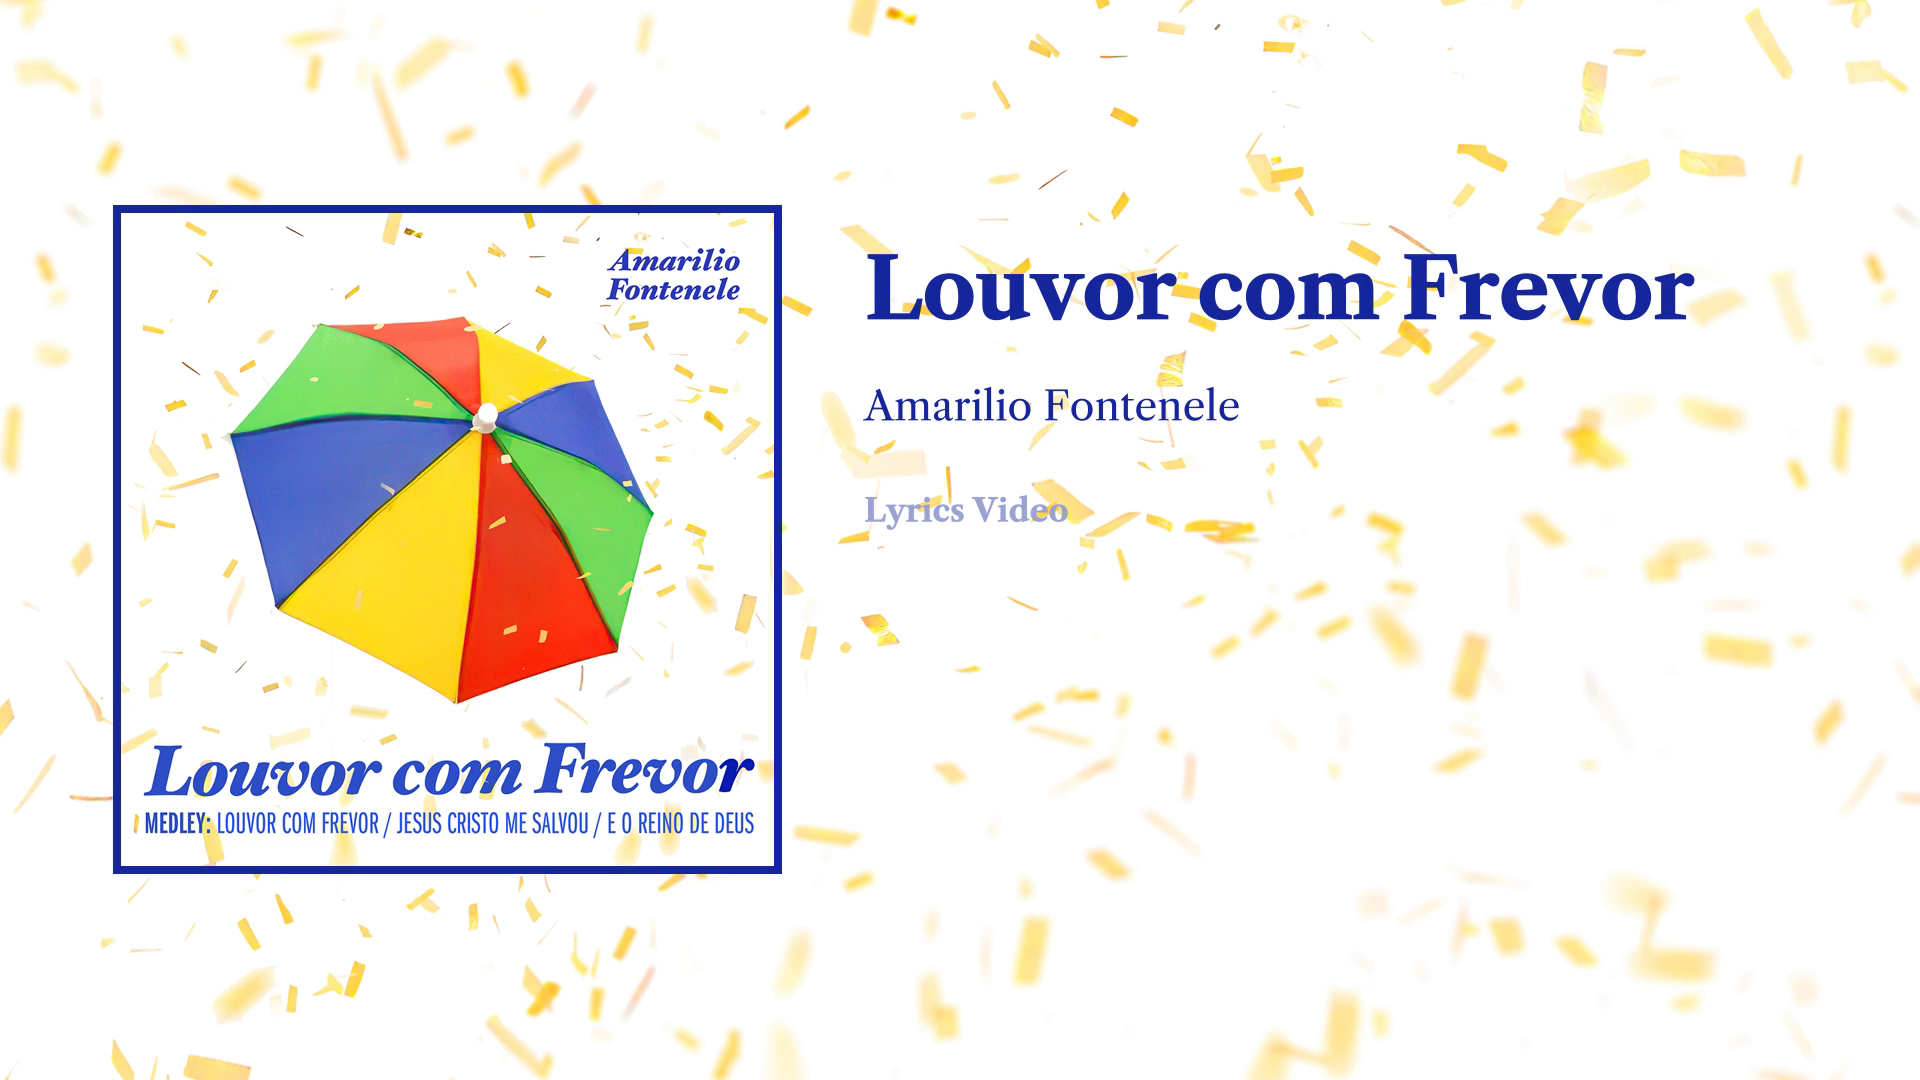
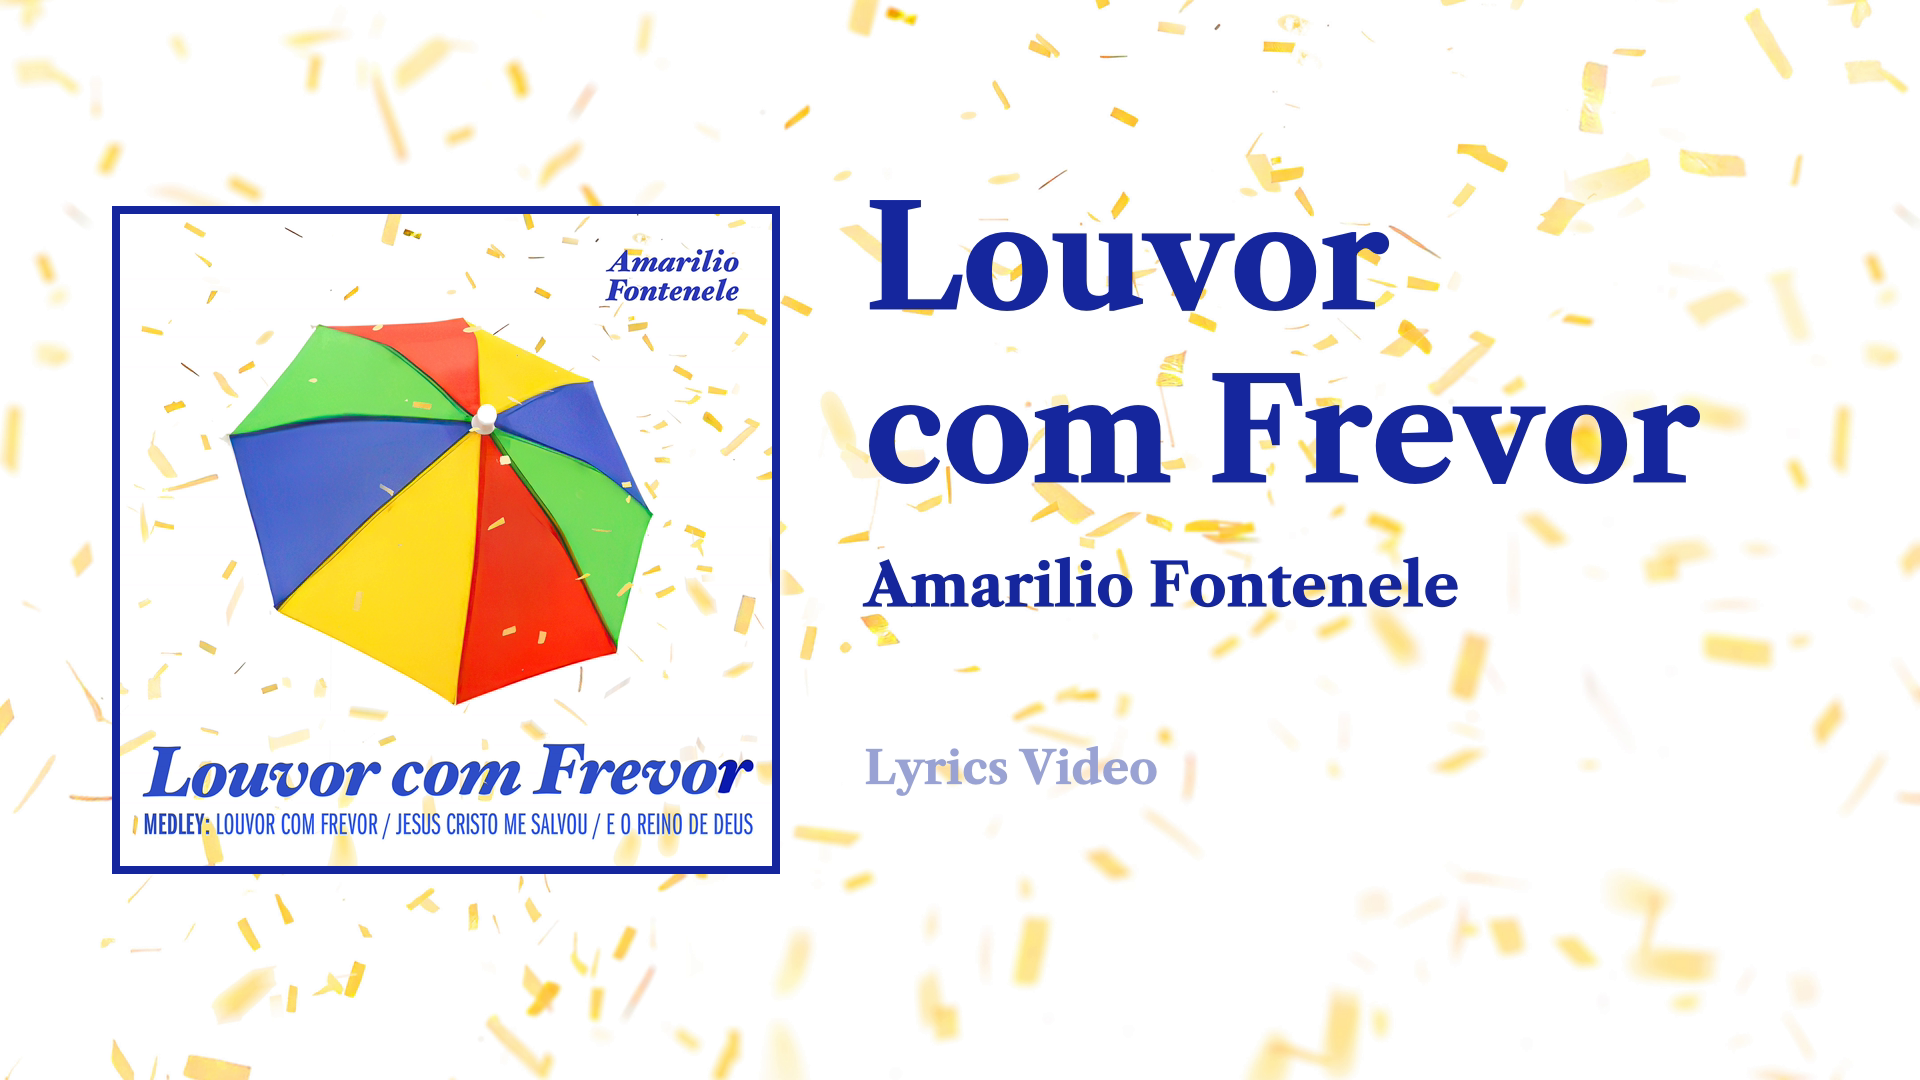
Redo intro/thumbnail typography: bigger fitted titles, grouped author, detached label
The intro title is now auto-fitted per song: it wraps into whichever
1-3 line split lets it render largest, measured with the real font
(Pillow when available), filling the text column to the same padding
the cover has on the left. The author sits tight under the title as
one group; the Lyrics Video label drops lower as a detached tag.
Compensates for libass treating ASS Fontsize as full font height.

Adds tools/make_thumbs.py so the thumbnail slides and contact sheet
are reproducible, and regenerates all 13 thumbs + SHEET-thumbnails.

Claude-Session: https://claude.ai/code/session_01N6fdJFszcmZzpC6AWr67X7

diff --git a/lyricsvideo/assgen.py b/lyricsvideo/assgen.py
@@ -2,6 +2,8 @@
 
 from __future__ import annotations
 
+import functools
+import subprocess
 from typing import TYPE_CHECKING
 
 from .lrc import Lyrics, LyricLine
@@ -40,16 +42,106 @@ def _split_lyric(text: str, max_chars: int = 30) -> list[str]:
     return [text[:split].strip(), text[split + 1:].strip()]
 
 
-def _intro_title_size(title: str) -> float:
-    """Height fraction for the intro title, larger for shorter titles."""
-    n = len(title)
-    if n <= 14:
-        return 0.110
-    if n <= 22:
-        return 0.095
-    if n <= 30:
-        return 0.085
-    return 0.075
+# Right padding of the intro text column: matches the cover's left inset so
+# a title fitted to the full column reads as centered in the composition.
+_INTRO_RIGHT_PAD = 0.059
+
+
+@functools.lru_cache(maxsize=None)
+def _font_file(font: str, bold: bool) -> str | None:
+    try:
+        out = subprocess.run(
+            ["fc-match", "-f", "%{file}", f"{font}:bold" if bold else font],
+            capture_output=True, text=True, timeout=5,
+        )
+        return out.stdout.strip() or None
+    except Exception:
+        return None
+
+
+@functools.lru_cache(maxsize=4096)
+def _text_width(text: str, size: int, font: str, bold: bool = True) -> float:
+    """Pixel width of text, measured with the real font when possible."""
+    try:
+        from PIL import ImageFont
+
+        f = ImageFont.truetype(_font_file(font, bold), size)
+        try:
+            f.set_variation_by_axes([700 if bold else 400])
+        except Exception:
+            pass
+        return float(f.getlength(text))
+    except Exception:
+        return len(text) * size * 0.55
+
+
+def _balanced_split(words: tuple[str, ...], n: int, font: str) -> list[str]:
+    """Split words into n lines minimizing the widest line."""
+    if n <= 1:
+        return [" ".join(words)]
+    best_lines, best_widest = None, None
+    # Try every split point for the first line, recurse for the rest.
+    for i in range(1, len(words) - n + 2):
+        head = " ".join(words[:i])
+        rest = _balanced_split(words[i:], n - 1, font)
+        widest = max(_text_width(t, 100, font) for t in [head, *rest])
+        if best_widest is None or widest < best_widest:
+            best_lines, best_widest = [head, *rest], widest
+    return best_lines
+
+
+@functools.lru_cache(maxsize=None)
+def _font_scale(font: str) -> float:
+    """ASS font size / em size. libass (matching VSFilter) treats the ASS
+    Fontsize as the font's total height (ascent+descent), so glyphs render
+    smaller than the nominal size by this factor."""
+    try:
+        from PIL import ImageFont
+
+        f = ImageFont.truetype(_font_file(font, True), 100)
+        ascent, descent = f.getmetrics()
+        return max(1.0, (ascent + descent) / 100)
+    except Exception:
+        return 1.2
+
+
+def intro_layout(title: str, width: int, height: int, font: str) -> dict:
+    """Fitted intro typography: title wrapped and sized to fill the text
+    column, author tight beneath it, the label detached lower down.
+
+    Sizes are nominal ASS font sizes (visual em = size / _font_scale)."""
+    avail = width * (1 - SHOWCASE["intro_text_x"] - _INTRO_RIGHT_PAD)
+    scale = _font_scale(font)
+    caps = {1: 0.150, 2: 0.130, 3: 0.110}  # visual em height caps
+    words = tuple(title.split()) or ("",)
+    best_size, best_lines = 1.0, [title]
+    for n in (1, 2, 3):
+        if n > len(words):
+            break
+        lines = _balanced_split(words, n, font)
+        widest = max(_text_width(t, 100, font) for t in lines)
+        size = min(avail * 100 / max(widest, 1) * 0.97, caps[n] * height) * scale
+        # Prefer fewer lines unless more lines buy a meaningfully bigger title.
+        if size > best_size * 1.02:
+            best_size, best_lines = size, lines
+    size_frac = best_size / height
+    n = len(best_lines)
+    title_y = {1: 0.20, 2: 0.16, 3: 0.12}[n]
+    author_size = min(
+        max(0.42 * best_size, 0.048 * scale * height), 0.060 * scale * height
+    )
+    # A line advance is roughly the nominal size (the full font height).
+    author_y = title_y + n * size_frac * 1.02 + 0.022
+    label_y = max(0.60, author_y + author_size / height + 0.11)
+    return {
+        "title_size": round(best_size),
+        "title_lines": best_lines,
+        "title_y": title_y,
+        "author_size": round(author_size),
+        "author_y": author_y,
+        "label_size": round(height * 0.042 * scale),
+        "label_y": label_y,
+    }
 
 
 def showcase_block_metrics(title: str | None) -> tuple[int, float, float]:
@@ -230,19 +322,13 @@ def build_showcase_ass(
     block_title_size = max(18, round(height * 0.040))
     block_author_size = max(12, round(height * 0.024))
     _title_text = song_title or lyrics.title or ""
-    title_frac = _intro_title_size(_title_text)
-    intro_title_size = max(28, round(height * title_frac))
-    intro_author_size = max(18, round(height * 0.046))
-    intro_label_size = max(14, round(height * 0.036))
-
-    # Stack the intro texts tightly: author right under the title (however
-    # many lines it wraps to), the label a beat below the author.
-    avail_w = width * (1 - g["intro_text_x"] - 0.05)
-    chars_fit = max(8, int(avail_w / (intro_title_size * 0.52)))
-    title_lines = max(1, -(-len(_title_text) // chars_fit))
-    intro_title_y = 0.22
-    intro_author_y = intro_title_y + title_lines * title_frac * 1.24 + 0.015
-    intro_label_y = intro_author_y + 0.046 * 1.24 + 0.045
+    il = intro_layout(_title_text, width, height, theme.font)
+    intro_title_size = max(28, il["title_size"])
+    intro_author_size = max(18, il["author_size"])
+    intro_label_size = max(14, il["label_size"])
+    intro_title_y = il["title_y"]
+    intro_author_y = il["author_y"]
+    intro_label_y = il["label_y"]
 
     block_text = brand.block_text_color or theme.text_color
     pad_x = round(width * 0.012)
@@ -270,9 +356,9 @@ Format: Name, Fontname, Fontsize, PrimaryColour, SecondaryColour, OutlineColour,
 {style("Lyr", lyr_size, theme.text_color, 1, 7, round(width * g["lyr_left"]), round(width * g["lyr_right"]), round(height * 0.21))}
 {style("BlockTitle", block_title_size, block_text, 1, 7, round(width * g["block_x"]) + pad_x, block_mr, round(height * (g["block_y"] + 0.014)))}
 {style("BlockAuthor", block_author_size, block_text, 0, 7, round(width * g["block_x"]) + pad_x, block_mr, round(height * (g["block_y"] + author_off)))}
-{style("IntroTitle", intro_title_size, theme.text_color, 1, 7, round(width * g["intro_text_x"]), round(width * 0.05), round(height * intro_title_y))}
-{style("IntroAuthor", intro_author_size, theme.text_color, 0, 7, round(width * g["intro_text_x"]), round(width * 0.05), round(height * intro_author_y))}
-{style("IntroLabel", intro_label_size, theme.dim_color, 1, 7, round(width * g["intro_text_x"]), round(width * 0.05), round(height * intro_label_y))}
+{style("IntroTitle", intro_title_size, theme.text_color, 1, 7, round(width * g["intro_text_x"]), round(width * _INTRO_RIGHT_PAD), round(height * intro_title_y))}
+{style("IntroAuthor", intro_author_size, theme.text_color, 1, 7, round(width * g["intro_text_x"]), round(width * _INTRO_RIGHT_PAD), round(height * intro_author_y))}
+{style("IntroLabel", intro_label_size, theme.dim_color, 1, 7, round(width * g["intro_text_x"]), round(width * _INTRO_RIGHT_PAD), round(height * intro_label_y))}
 
 [Events]
 Format: Layer, Start, End, Style, Name, MarginL, MarginR, MarginV, Effect, Text
@@ -285,8 +371,9 @@ Format: Layer, Start, End, Style, Name, MarginL, MarginR, MarginV, Effect, Text
     if intro_end > 0:
         fad = "{\\fad(400,400)}"
         if title:
+            title_text = "\\N".join(_escape(t) for t in il["title_lines"])
             events.append(
-                f"Dialogue: 0,{_ass_time(0.2)},{_ass_time(intro_end)},IntroTitle,,0,0,0,,{fad}{_escape(title)}"
+                f"Dialogue: 0,{_ass_time(0.2)},{_ass_time(intro_end)},IntroTitle,,0,0,0,,{fad}{title_text}"
             )
         if author:
             events.append(

diff --git a/tools/make_thumbs.py b/tools/make_thumbs.py
@@ -1,0 +1,126 @@
+#!/usr/bin/env python3
+"""Regenerate the thumbnail/intro composition slides and their contact sheet.
+
+For every song this renders the showcase intro screen (big cover, fitted
+title, author, "Lyrics Video" tag) exactly as the video renderer draws it,
+using the same brand config and ASS generation code, and saves it to
+compositions/<slug>-thumb.png. Then it assembles compositions/SHEET-thumbnails.png.
+
+Usage, from the repo root:
+    python3 tools/make_thumbs.py            # all songs + sheet
+    python3 tools/make_thumbs.py salmodiando ta-com-sede   # just these + sheet
+"""
+from __future__ import annotations
+
+import subprocess
+import sys
+import tempfile
+from pathlib import Path
+
+ROOT = Path(__file__).resolve().parent.parent
+sys.path.insert(0, str(ROOT))
+
+from lyricsvideo.assgen import SHOWCASE, build_showcase_ass  # noqa: E402
+from lyricsvideo.brand import load_brand  # noqa: E402
+from lyricsvideo.lrc import Lyrics  # noqa: E402
+from lyricsvideo.themes import THEMES  # noqa: E402
+
+W, H = 1920, 1080
+
+# slug, display title, brand
+SONGS = [
+    ("ainda-e-tempo", "Ainda é Tempo", "ainda-e-tempo"),
+    ("corriqueiramente", "Corriqueiramente", "ainda-e-tempo"),
+    ("quero-lembrar-me", "Quero Lembrar-me do Meu Criador", "ainda-e-tempo"),
+    ("sessenteando", "Sessenteando", "sessenteando"),
+    ("29-de-dezembro", "29 de Dezembro", "sessenteando"),
+    ("cancao-de-perdao-e-paz", "Canção de Perdão e Paz", "sessenteando"),
+    ("ele-e-bom-demais", "Ele é Bom Demais", "ele-e-bom-demais"),
+    ("por-hoje-estou-limpo", "Por Hoje Estou Limpo", "ele-e-bom-demais"),
+    ("ta-com-sede", "Tá com Sede?", "ele-e-bom-demais"),
+    ("como-voce-esta", "Como Você Está?", "como-voce-esta"),
+    ("salmodiando", "Salmodiando", "salmodiando"),
+    ("redes-espirituais", "Redes Espirituais", "redes-espirituais"),
+    ("louvor-com-frevor", "Louvor com Frevor", "louvor-com-frevor"),
+]
+
+
+def make_thumb(slug: str, title: str, brand_slug: str, out: Path) -> None:
+    brand = load_brand(ROOT / "brands" / f"{brand_slug}.json")
+    theme = brand.apply_to(THEMES["midnight"])
+    lyrics = Lyrics(lines=[], title=title, artist=brand.artist)
+    ass_text = build_showcase_ass(
+        lyrics, theme, brand, W, H, duration=8.0, intro_end=6.0,
+        song_title=title, author=brand.artist,
+    )
+
+    g = SHOWCASE
+    big_w = round(W * g["intro_cover_w"])
+    big_x = round(W * g["intro_cover_x"])
+    border_color = brand.cover_border or theme.text_color
+    b = max(2, round(W * 0.004))
+
+    with tempfile.TemporaryDirectory(prefix="thumb-") as tmp:
+        ass_file = Path(tmp) / "intro.ass"
+        ass_file.write_text(ass_text, encoding="utf-8")
+        filters = (
+            f"[0:v]scale={W}:{H}:force_original_aspect_ratio=increase,"
+            f"crop={W}:{H},setsar=1[bg];"
+            f"[1:v]scale={big_w}:-1,pad=iw+{2*b}:ih+{2*b}:{b}:{b}"
+            f":color=0x{border_color.lstrip('#')}[cover];"
+            f"[bg][cover]overlay=x={big_x}:y=(H-h)/2[wcov];"
+            f"[wcov]ass=filename={ass_file.name}[out]"
+        )
+        cmd = [
+            "ffmpeg", "-y", "-hide_banner", "-loglevel", "error",
+            "-loop", "1", "-framerate", "30", "-i", str(brand.background),
+            "-loop", "1", "-framerate", "30", "-i", str(brand.cover),
+            "-filter_complex", filters, "-map", "[out]",
+            "-ss", "2", "-frames:v", "1", str(out),
+        ]
+        subprocess.run(cmd, cwd=tmp, check=True)
+
+
+def make_sheet(out: Path) -> None:
+    from PIL import Image, ImageDraw, ImageFont
+
+    cols, tile_w, gap, label_h = 3, 630, 8, 34
+    tile_h = round(tile_w * H / W)
+    rows = -(-len(SONGS) // cols)
+    sheet = Image.new(
+        "RGB",
+        (cols * tile_w + (cols - 1) * gap, rows * (tile_h + label_h) + (rows - 1) * gap),
+        "#191919",
+    )
+    draw = ImageDraw.Draw(sheet)
+    try:
+        font = ImageFont.truetype(
+            "/usr/share/fonts/truetype/dejavu/DejaVuSerif.ttf", 22
+        )
+    except OSError:
+        font = ImageFont.load_default()
+    for i, (slug, title, _) in enumerate(SONGS):
+        x = (i % cols) * (tile_w + gap)
+        y = (i // cols) * (tile_h + label_h + gap)
+        draw.text((x + 4, y + 5), title, fill="#f0f0f0", font=font)
+        img = Image.open(ROOT / "compositions" / f"{slug}-thumb.png").resize(
+            (tile_w, tile_h), Image.LANCZOS
+        )
+        sheet.paste(img, (x, y + label_h))
+    sheet.save(out)
+
+
+def main() -> None:
+    only = set(sys.argv[1:])
+    for slug, title, brand_slug in SONGS:
+        if only and slug not in only:
+            continue
+        out = ROOT / "compositions" / f"{slug}-thumb.png"
+        make_thumb(slug, title, brand_slug, out)
+        print(f"  {out.name}")
+    make_sheet(ROOT / "compositions" / "SHEET-thumbnails.png")
+    print("  SHEET-thumbnails.png")
+
+
+if __name__ == "__main__":
+    main()
